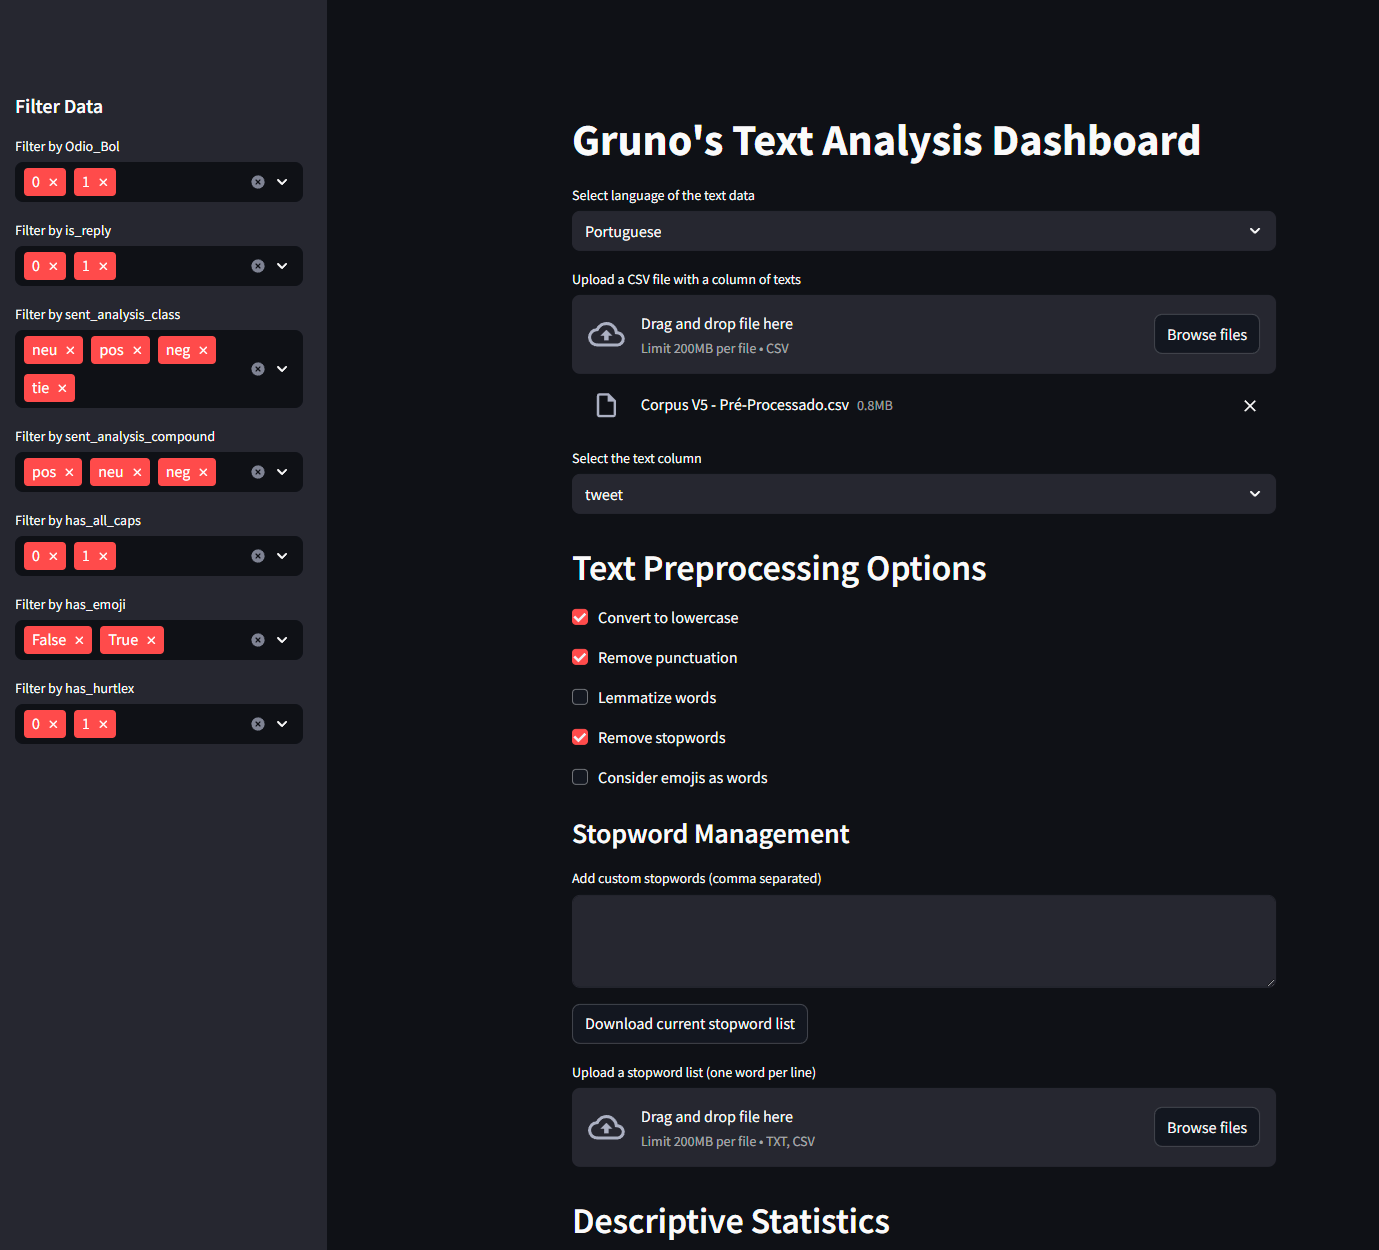
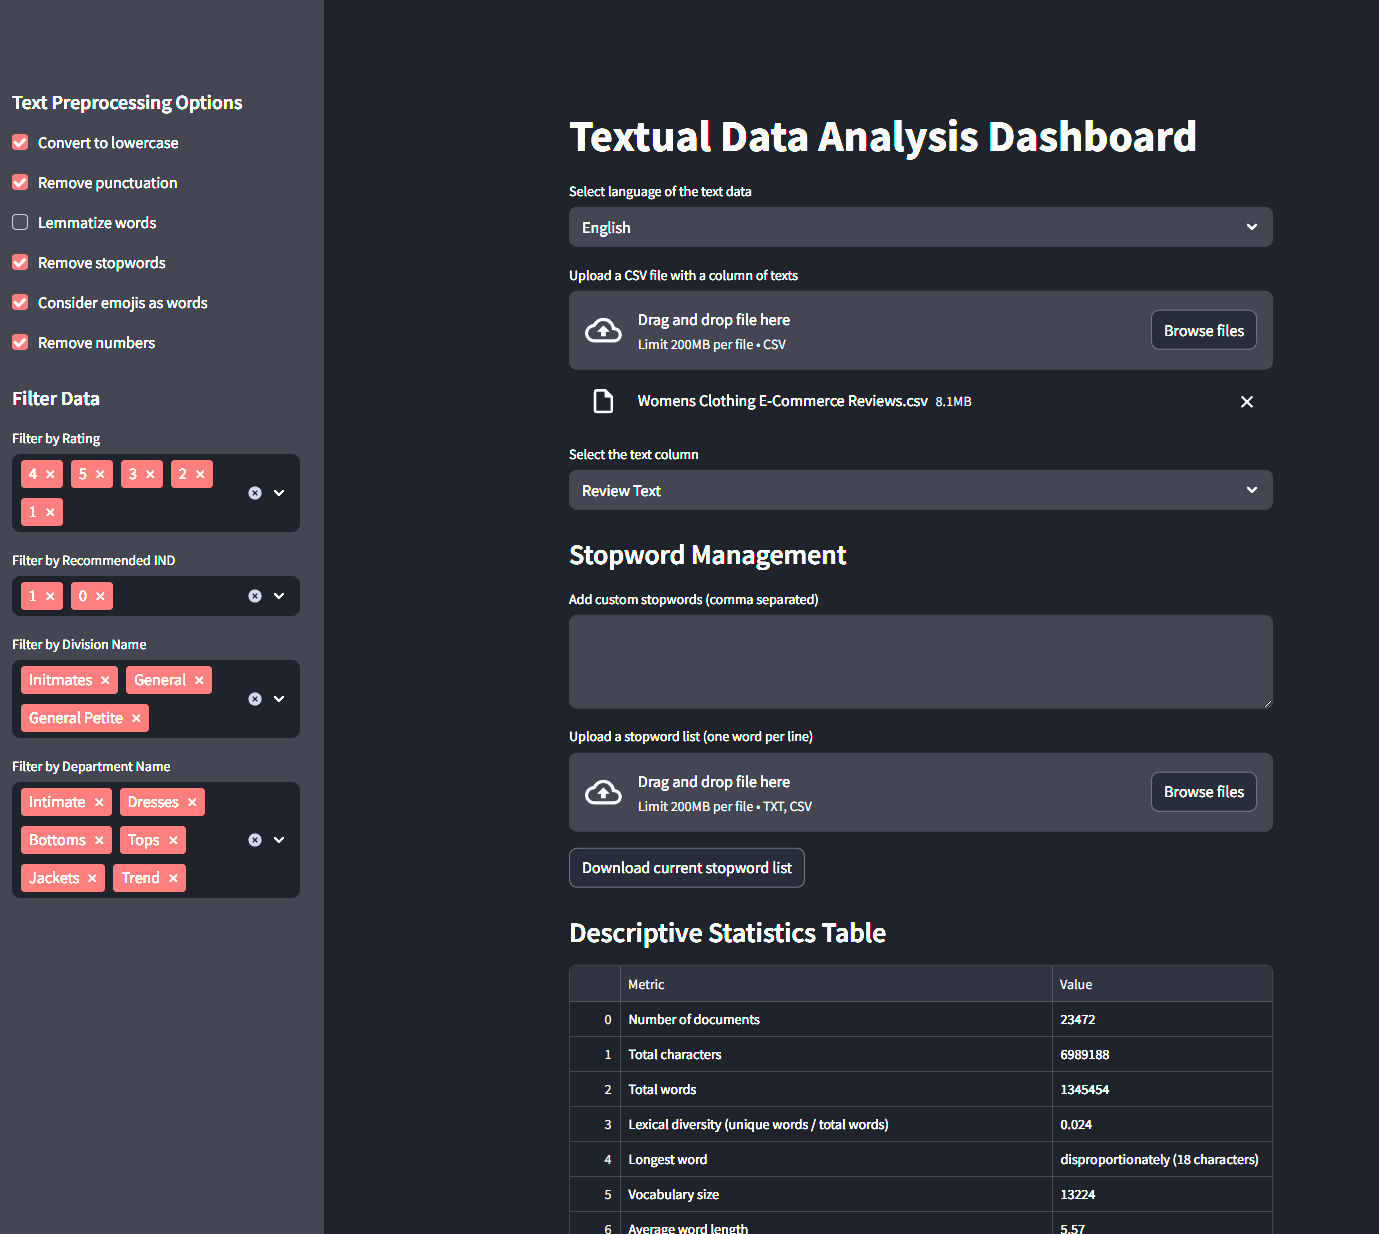
performance improvements, updated screenshot

diff --git a/NLP_dash.py b/NLP_dash.py
@@ -45,32 +45,22 @@ def is_emoji(token_text):
     return any(char in emoji.EMOJI_DATA for char in token_text)
 
 @st.cache_data(show_spinner="Processing text...")
-def preprocess_text(all_text, do_lower, do_remove_punct, do_lemmatize, do_remove_stop, do_include_emojis, stopwords_list, model_name):
-    all_tokens = []
-    all_text = " ".join(texts)
-    doc = nlp(all_text)
+def preprocess_text(
+    texts, do_lower, do_remove_punct, do_lemmatize, do_remove_stop, do_include_emojis, stopwords_list, model_name, do_remove_numbers
+):
+    nlp = load_spacy_model(model_name)
 
-    tokens = []
-    for token in doc:
-        token_text = token.text
-        if do_include_emojis:
-            if not (token.is_alpha or is_emoji(token_text)) and do_remove_punct:
-                continue
-        else:
-            if not token.is_alpha and do_remove_punct:
-                continue
-        word = token.lemma_.lower() if do_lemmatize else token.text.lower() if do_lower else token.text
-        if do_include_emojis and is_emoji(token_text):
-            word = token_text
-        if do_remove_stop and word in stopwords_list:
-            continue
-        tokens.append(word)
-        # Per-document tokens
-    for text in texts:
-        doc_i = nlp(text)
+    all_tokens = []
+    filtered_tokens = []
+    docs = []
+    for doc in nlp.pipe(texts, batch_size=32, n_process=1):
+        docs.append(doc)
         tokens_i = []
-        for token in doc_i:
+        for token in doc:
             token_text = token.text
+            # Remove numbers if option is set
+            if do_remove_numbers and (token.like_num or token_text.isdigit()):
+                continue
             if do_include_emojis:
                 if not (token.is_alpha or is_emoji(token_text)) and do_remove_punct:
                     continue
@@ -83,8 +73,48 @@ def preprocess_text(all_text, do_lower, do_remove_punct, do_lemmatize, do_remove
             if do_remove_stop and word in stopwords_list:
                 continue
             tokens_i.append(word)
+            filtered_tokens.append(word)
         all_tokens.append(tokens_i)
-    return tokens, doc, all_tokens
+    return filtered_tokens, docs, all_tokens
+
+def preprocess_text_with_progress(
+    texts, do_lower, do_remove_punct, do_lemmatize, do_remove_stop, do_include_emojis, stopwords_list, model_name, do_remove_numbers
+):
+    nlp = load_spacy_model(model_name)
+
+    all_tokens = []
+    filtered_tokens = []
+    docs = []
+    total = len(texts)
+    progress_bar = st.progress(0, text="Processing texts...")
+    for idx, doc in enumerate(nlp.pipe(texts, batch_size=32, n_process=1)):
+        docs.append(doc)
+        tokens_i = []
+        for token in doc:
+            token_text = token.text
+            # Remove numbers if option is set
+            if do_remove_numbers and (token.like_num or token_text.isdigit()):
+                continue
+            if do_include_emojis:
+                if not (token.is_alpha or is_emoji(token_text)) and do_remove_punct:
+                    continue
+            else:
+                if not token.is_alpha and do_remove_punct:
+                    continue
+            word = token.lemma_.lower() if do_lemmatize else token.text.lower() if do_lower else token.text
+            if do_include_emojis and is_emoji(token_text):
+                word = token_text
+            if do_remove_stop and word in stopwords_list:
+                continue
+            tokens_i.append(word)
+            filtered_tokens.append(word)
+        all_tokens.append(tokens_i)
+        progress_bar.progress((idx + 1) / total, text=f"Processing texts... ({idx + 1}/{total})")
+    progress_bar.empty()
+    return filtered_tokens, docs, all_tokens
+
+
+
 
 # Language selection
 st.title("Textual Data Analysis Dashboard")
@@ -104,6 +134,7 @@ if uploaded_file:
     do_lemmatize = st.sidebar.checkbox("Lemmatize words", value=False)
     do_remove_stop = st.sidebar.checkbox("Remove stopwords", value=True)
     do_include_emojis = st.sidebar.checkbox("Consider emojis as words", value=True)
+    do_remove_numbers = st.sidebar.checkbox("Remove numbers", value=True)
 
     # --- Interactive Filtering ---
     filter_columns = [col for col in df.columns if col != text_column]
@@ -116,7 +147,6 @@ if uploaded_file:
                 df = df[df[col].isin(selected)]
 
     texts = df[text_column].astype(str).tolist()
-    all_text = " ".join(texts)
 
  
 
@@ -155,39 +185,53 @@ if uploaded_file:
             mime="text/plain"
         )
 
+    # --- Main code: choose cached or progress bar version ---
+    MAX_CACHE_SIZE = 10000  # You can adjust this threshold
 
+    if len(texts) <= MAX_CACHE_SIZE:
+        tokens, docs, all_tokens = preprocess_text(
+            texts, do_lower, do_remove_punct, do_lemmatize, do_remove_stop, do_include_emojis, stopwords_list, model_name, do_remove_numbers
+        )
+    else:
+        tokens, docs, all_tokens = preprocess_text_with_progress(
+            texts, do_lower, do_remove_punct, do_lemmatize, do_remove_stop, do_include_emojis, stopwords_list, model_name, do_remove_numbers
+        )
 
-    tokens, doc, all_tokens = preprocess_text(
-    all_text, do_lower, do_remove_punct, do_lemmatize, do_remove_stop, do_include_emojis, stopwords_list, model_name
-    )
-    filtered_tokens = tokens
-
+    
+    sentences = [sent for d in docs for sent in d.sents]
+    
 
     # Descriptive statistics
      # Show all descriptive statistics in a table
     # Lexical diversity
-    lexical_diversity = len(set(filtered_tokens)) / len(filtered_tokens) if filtered_tokens else 0
-    longest_word = max(filtered_tokens, key=len) if filtered_tokens else ""
-    vocab = set(filtered_tokens)
-    avg_word_len = sum(len(word) for word in filtered_tokens) / len(filtered_tokens) if filtered_tokens else 0
-    hapaxes = [word for word, count in Counter(filtered_tokens).items() if count == 1]
-    sentences = list(doc.sents)
-    avg_sentence_len = sum(len([t for t in sent if t.is_alpha]) for sent in sentences) / len(sentences) if sentences else 0
+    lexical_diversity = len(set(tokens)) / len(tokens) if tokens else 0
+    longest_word = max(tokens, key=len) if tokens else ""
+    vocab = set(tokens)
+    avg_word_len = sum(len(word) for word in tokens) / len(tokens) if tokens else 0
+    hapaxes = [word for word, count in Counter(tokens).items() if count == 1]
+    total_words = sum(1 for d in docs for t in d if t.is_alpha)
+    num_sentences = len(sentences)
+    avg_sentence_len = (
+        sum(len([t for t in sent if t.is_alpha]) for sent in sentences) / num_sentences
+        if num_sentences else 0
+    )
 
     stats_data = [
         {"Metric": "Number of documents", "Value": len(texts)},
-        {"Metric": "Total characters", "Value": len(all_text)},
-        {"Metric": "Total words", "Value": len([t for t in doc if t.is_alpha])},
+        {"Metric": "Total characters", "Value": sum(len(t) for t in texts)},
+        {"Metric": "Total words", "Value": total_words},
         {"Metric": "Lexical diversity (unique words / total words)", "Value": f"{lexical_diversity:.3f}"},
         {"Metric": "Longest word", "Value": f"{longest_word} ({len(longest_word)} characters)" if longest_word else ""},
         {"Metric": "Vocabulary size", "Value": len(vocab)},
         {"Metric": "Average word length", "Value": f"{avg_word_len:.2f}"},
         {"Metric": "Number of hapax legomena (unique words)", "Value": len(hapaxes)},
-        {"Metric": "Number of sentences", "Value": len(sentences)},
+        {"Metric": "Number of sentences", "Value": num_sentences},
         {"Metric": "Average sentence length (in words)", "Value": f"{avg_sentence_len:.2f}"},
     ]
     st.subheader("Descriptive Statistics Table")
     st.dataframe(pd.DataFrame(stats_data), use_container_width=True)
+
+
 
 
     # Sentence statistics
@@ -244,7 +288,7 @@ if uploaded_file:
 
     # WordCloud
     st.header("Word Cloud")
-    wc = WordCloud(width=800, height=400, background_color='white').generate(" ".join(filtered_tokens))
+    wc = WordCloud(width=800, height=400, background_color='white').generate(" ".join(tokens))
     fig, ax = plt.subplots(figsize=(10, 5))
     ax.imshow(wc, interpolation='bilinear')
     ax.axis('off')
@@ -253,7 +297,7 @@ if uploaded_file:
 
 
     # Most common words (excluding stopwords)
-    common_words = Counter(filtered_tokens).most_common(20)
+    common_words = Counter(tokens).most_common(20)
 
     common_words_table = [{"Word": word, "Count": count} for word, count in common_words[0:10]]
     st.subheader("Top 10 Most Common Words (excluding stopwords)")
@@ -273,29 +317,30 @@ if uploaded_file:
 
     # POS Tagging statistics
     st.header("Part-of-Speech (POS) Tagging")
-    pos_counts = Counter([token.pos_ for token in doc if token.is_alpha])
+    pos_counts = Counter([token.pos_ for d in docs for token in d if token.is_alpha])
     pos_table = [{"POS": pos, "Count": count} for pos, count in pos_counts.most_common(10)]
     st.dataframe(pos_table, use_container_width=True)
 
     # Named Entity Recognition (NER)
     st.header("Named Entity Recognition (NER)")
-    if doc.ents:
-        ent_labels = [ent.label_ for ent in doc.ents]
+    all_ents = [ent for d in docs for ent in d.ents]
+    if all_ents:
+        ent_labels = [ent.label_ for ent in all_ents]
         ent_types = Counter(ent_labels)
         ent_table = [{"Entity Type": label, "Count": count} for label, count in ent_types.most_common()]
         st.dataframe(ent_table, use_container_width=True)
 
         # Show top 10 named entities by frequency
-        ent_texts = [ent.text for ent in doc.ents]
+        ent_texts = [ent.text for ent in all_ents]
         ent_texts_counter = Counter(ent_texts)
         top_entities = [{"Entity": ent, "Count": count} for ent, count in ent_texts_counter.most_common(10)]
         st.subheader("Top 10 Named Entities")
         st.dataframe(top_entities, use_container_width=True)
     else:
         st.info("No named entities found in the current selection.")
-    
-    if doc.ents:
-        ent_texts_counter = Counter([ent.text for ent in doc.ents])
+
+    if all_ents:
+        ent_texts_counter = Counter([ent.text for ent in all_ents])
         ent_texts_df = pd.DataFrame(ent_texts_counter.most_common(20), columns=["Entity", "Count"])
         if not ent_texts_df.empty:
             st.subheader("Top 20 Named Entities")
